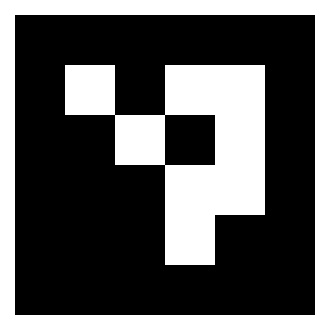
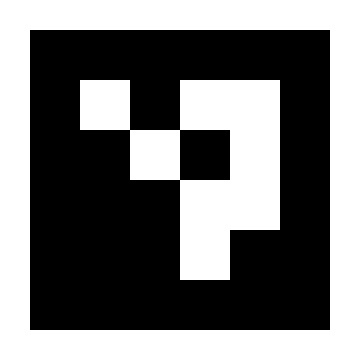
update aruco calibration.world (#16)

Changed region(s): [[0.0303, 0.0303, 0.9697, 0.9697], [0.4848, 0.1818, 0.8182, 0.8182], [0.1818, 0.1818, 0.6667, 0.5152]]

diff --git a/andante_gazebo/models/aruco_0/materials/generate.py b/andante_gazebo/models/aruco_0/materials/generate.py
@@ -4,7 +4,7 @@ import numpy as np
 
 def main(args=None):
     SIZE = 300
-    EDGE = 15
+    EDGE = 30
 
     aruco = cv2.aruco
     aruco_dict = aruco.getPredefinedDictionary(aruco.DICT_4X4_50)
